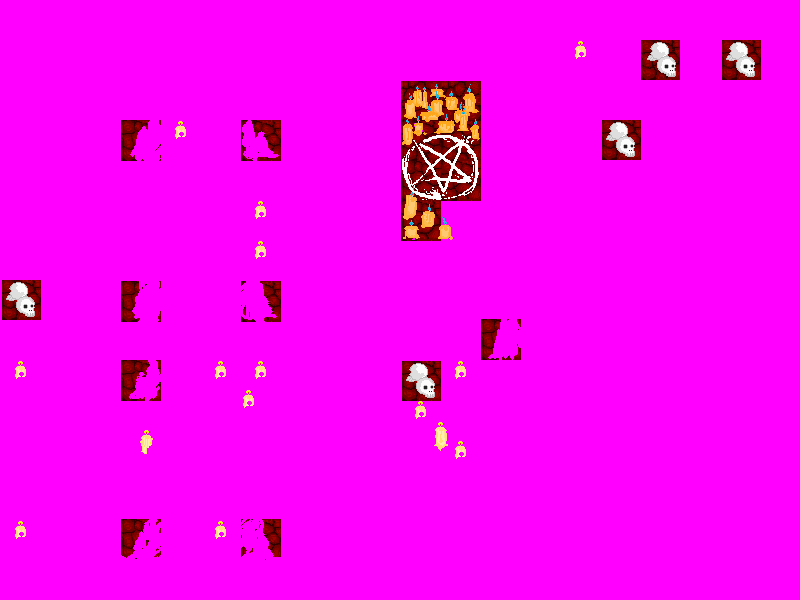
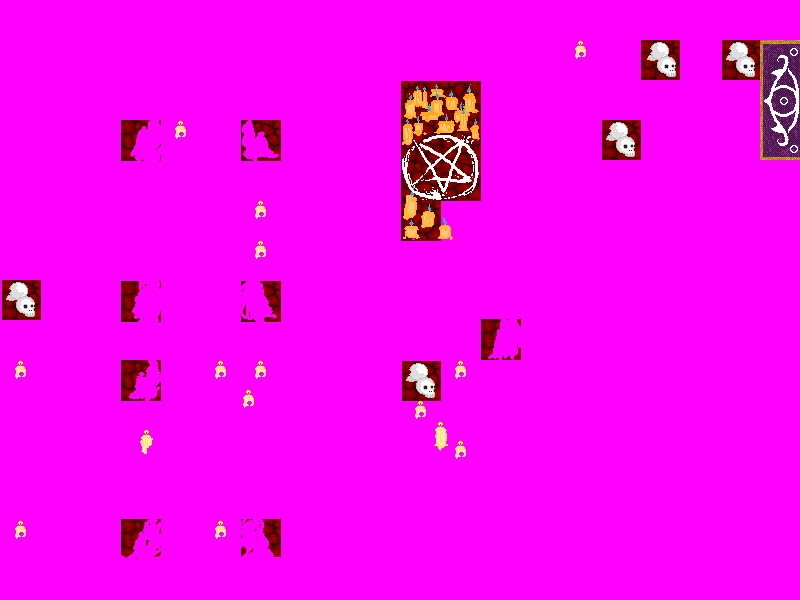
Balanceamento + máscara

Changed region(s): [[0.9375, 0.06, 1.0, 0.27]]

diff --git a/code/src/wave.cpp b/code/src/wave.cpp
@@ -107,8 +107,8 @@ void Wave::configurarWave()
 {
 	switch(this->mapaAtual->tipo)
 	{
-		case SALA_GUARDA:
-			this->quantidadeComboios = 4;
+		case SALA_ARTES_NEGRAS:
+			this->quantidadeComboios = 3;
 			this->intervaloEntreComboios = 3*Tela::FPS;
 			this->intervaloCriacaoInimigos = (3*Tela::FPS)/2;
 			this->atrasoEntreComboios = this->intervaloEntreComboios - Tela::FPS;
@@ -116,26 +116,26 @@ void Wave::configurarWave()
 			if (this->numeroWave < 2)
 			{
 				this->quantidadeInimigosTipoPorComboio[CAPITAO] = 0;
-				this->quantidadeInimigosTipoPorComboio[SAQUEADOR] = 0;
-				this->quantidadeInimigosTipoPorComboio[CORSARIO] = 5;
+				this->quantidadeInimigosTipoPorComboio[SAQUEADOR] = 2;
+				this->quantidadeInimigosTipoPorComboio[CORSARIO] = 2;
 				this->quantidadeInimigosTipoPorComboio[PERNA_DE_PAU] = 0;
 			} else if (this->numeroWave < 3)
 			{
 				this->quantidadeInimigosTipoPorComboio[CAPITAO] = 0;
-				this->quantidadeInimigosTipoPorComboio[SAQUEADOR] = 5;
-				this->quantidadeInimigosTipoPorComboio[CORSARIO] = 0;
+				this->quantidadeInimigosTipoPorComboio[SAQUEADOR] = 1;
+				this->quantidadeInimigosTipoPorComboio[CORSARIO] = 3;
 				this->quantidadeInimigosTipoPorComboio[PERNA_DE_PAU] = 0;
 			
 			} else if (this->numeroWave < 5)
 			{
 				this->quantidadeInimigosTipoPorComboio[CAPITAO] = 0;
 				this->quantidadeInimigosTipoPorComboio[SAQUEADOR] = 0;
-				this->quantidadeInimigosTipoPorComboio[CORSARIO] = 0;
-				this->quantidadeInimigosTipoPorComboio[PERNA_DE_PAU] = 5;
+				this->quantidadeInimigosTipoPorComboio[CORSARIO] = 4;
+				this->quantidadeInimigosTipoPorComboio[PERNA_DE_PAU] = 2;
 			
 			} else if (this->numeroWave == 5)
 			{
-				this->quantidadeInimigosTipoPorComboio[CAPITAO] = 1;
+				this->quantidadeInimigosTipoPorComboio[CAPITAO] = 3;
 				this->quantidadeInimigosTipoPorComboio[SAQUEADOR] = 0;
 				this->quantidadeInimigosTipoPorComboio[CORSARIO] = 0;
 				this->quantidadeInimigosTipoPorComboio[PERNA_DE_PAU] = 0;
@@ -148,38 +148,38 @@ void Wave::configurarWave()
 			this->quantidadeInimigosWave = this->quantidadeInimigosPorComboio * this->quantidadeComboios;
 			break;
 		
-		case SALA_ARTES_NEGRAS:
-			this->quantidadeComboios = 4;
+		case SALA_GUARDA:
+			this->quantidadeComboios = 3;
 			this->intervaloEntreComboios = 3*Tela::FPS;
 			this->intervaloCriacaoInimigos = (3*Tela::FPS)/2;
 			this->atrasoEntreComboios = this->intervaloEntreComboios - Tela::FPS;
 			
 			if (this->numeroWave < 2)
 			{
-				this->quantidadeInimigosTipoPorComboio[CAPITAO] = 1;
+				this->quantidadeInimigosTipoPorComboio[CAPITAO] = 0;
+				this->quantidadeInimigosTipoPorComboio[SAQUEADOR] = 0;
+				this->quantidadeInimigosTipoPorComboio[CORSARIO] = 4;
+				this->quantidadeInimigosTipoPorComboio[PERNA_DE_PAU] = 2;
+			} else if (this->numeroWave < 3)
+			{
+				this->quantidadeInimigosTipoPorComboio[CAPITAO] = 0;
 				this->quantidadeInimigosTipoPorComboio[SAQUEADOR] = 2;
 				this->quantidadeInimigosTipoPorComboio[CORSARIO] = 2;
 				this->quantidadeInimigosTipoPorComboio[PERNA_DE_PAU] = 1;
-			} else if (this->numeroWave < 3)
-			{
-				this->quantidadeInimigosTipoPorComboio[CAPITAO] = 3;
-				this->quantidadeInimigosTipoPorComboio[SAQUEADOR] = 3;
-				this->quantidadeInimigosTipoPorComboio[CORSARIO] = 3;
-				this->quantidadeInimigosTipoPorComboio[PERNA_DE_PAU] = 3;
 			
 			} else if (this->numeroWave < 5)
 			{
-				this->quantidadeInimigosTipoPorComboio[CAPITAO] = 4;
+				this->quantidadeInimigosTipoPorComboio[CAPITAO] = 1;
 				this->quantidadeInimigosTipoPorComboio[SAQUEADOR] = 4;
 				this->quantidadeInimigosTipoPorComboio[CORSARIO] = 4;
-				this->quantidadeInimigosTipoPorComboio[PERNA_DE_PAU] = 4;
+				this->quantidadeInimigosTipoPorComboio[PERNA_DE_PAU] = 0;
 			
 			} else if (this->numeroWave == 5)
 			{
-				this->quantidadeInimigosTipoPorComboio[CAPITAO] = 5;
-				this->quantidadeInimigosTipoPorComboio[SAQUEADOR] = 5;
-				this->quantidadeInimigosTipoPorComboio[CORSARIO] = 5;
-				this->quantidadeInimigosTipoPorComboio[PERNA_DE_PAU] = 5;			
+				this->quantidadeInimigosTipoPorComboio[CAPITAO] = 4;
+				this->quantidadeInimigosTipoPorComboio[SAQUEADOR] = 0;
+				this->quantidadeInimigosTipoPorComboio[CORSARIO] = 0;
+				this->quantidadeInimigosTipoPorComboio[PERNA_DE_PAU] = 1;			
 			}
 				
 			this->quantidadeInimigosPorComboio =  this->quantidadeInimigosTipoPorComboio[CAPITAO] 
@@ -190,7 +190,7 @@ void Wave::configurarWave()
 			break;
 			
 		case JARDIM_EXTERNO:
-			this->quantidadeComboios = 10;
+			this->quantidadeComboios = 4;
 			this->intervaloEntreComboios = 2*Tela::FPS;
 			this->intervaloCriacaoInimigos = (3*Tela::FPS)/2;
 			this->atrasoEntreComboios = this->intervaloEntreComboios - Tela::FPS;
@@ -199,28 +199,28 @@ void Wave::configurarWave()
 			{
 				this->quantidadeInimigosTipoPorComboio[CAPITAO] = 1;
 				this->quantidadeInimigosTipoPorComboio[SAQUEADOR] = 0;
-				this->quantidadeInimigosTipoPorComboio[CORSARIO] = 5;
+				this->quantidadeInimigosTipoPorComboio[CORSARIO] = 3;
 				this->quantidadeInimigosTipoPorComboio[PERNA_DE_PAU] = 0;
 			} else if (this->numeroWave < 3)
 			{
 				this->quantidadeInimigosTipoPorComboio[CAPITAO] = 1;
 				this->quantidadeInimigosTipoPorComboio[SAQUEADOR] = 2;
 				this->quantidadeInimigosTipoPorComboio[CORSARIO] = 3;
-				this->quantidadeInimigosTipoPorComboio[PERNA_DE_PAU] = 4;
+				this->quantidadeInimigosTipoPorComboio[PERNA_DE_PAU] = 2;
 			
 			} else if (this->numeroWave < 5)
 			{
-				this->quantidadeInimigosTipoPorComboio[CAPITAO] = 8;
+				this->quantidadeInimigosTipoPorComboio[CAPITAO] = 3;
 				this->quantidadeInimigosTipoPorComboio[SAQUEADOR] = 2;
-				this->quantidadeInimigosTipoPorComboio[CORSARIO] = 8;
+				this->quantidadeInimigosTipoPorComboio[CORSARIO] = 3;
 				this->quantidadeInimigosTipoPorComboio[PERNA_DE_PAU] = 2;
 			
 			} else if (this->numeroWave == 5)
 			{
-				this->quantidadeInimigosTipoPorComboio[CAPITAO] = 8;
-				this->quantidadeInimigosTipoPorComboio[SAQUEADOR] = 8;
-				this->quantidadeInimigosTipoPorComboio[CORSARIO] = 8;
-				this->quantidadeInimigosTipoPorComboio[PERNA_DE_PAU] = 8;			
+				this->quantidadeInimigosTipoPorComboio[CAPITAO] = 3;
+				this->quantidadeInimigosTipoPorComboio[SAQUEADOR] = 3;
+				this->quantidadeInimigosTipoPorComboio[CORSARIO] = 3;
+				this->quantidadeInimigosTipoPorComboio[PERNA_DE_PAU] = 3;			
 			}
 				
 			this->quantidadeInimigosPorComboio =  this->quantidadeInimigosTipoPorComboio[CAPITAO] 
@@ -231,7 +231,7 @@ void Wave::configurarWave()
 			break;
 		
 		case SALA_TREINAMENTO:
-			this->quantidadeComboios = 10;
+			this->quantidadeComboios = 4;
 			this->intervaloEntreComboios = 4*Tela::FPS;
 			this->intervaloCriacaoInimigos = (3*Tela::FPS)/2;
 			this->atrasoEntreComboios = this->intervaloEntreComboios - Tela::FPS;
@@ -272,21 +272,21 @@ void Wave::configurarWave()
 			break;
 
 		case SALA_REUNIAO:
-			this->quantidadeComboios = 2;
+			this->quantidadeComboios = 3;
 			this->intervaloEntreComboios = 4*Tela::FPS;
-			this->intervaloCriacaoInimigos = (3*Tela::FPS)/2;
+			this->intervaloCriacaoInimigos = 1.5*Tela::FPS;
 			this->atrasoEntreComboios = this->intervaloEntreComboios - Tela::FPS;
 			
 			if (this->numeroWave < 2)
 			{
 				this->quantidadeInimigosTipoPorComboio[CAPITAO] = 0;
 				this->quantidadeInimigosTipoPorComboio[SAQUEADOR] = 0;
-				this->quantidadeInimigosTipoPorComboio[CORSARIO] = 5;
+				this->quantidadeInimigosTipoPorComboio[CORSARIO] = 3;
 				this->quantidadeInimigosTipoPorComboio[PERNA_DE_PAU] = 0;
 			} else if (this->numeroWave < 3)
 			{
 				this->quantidadeInimigosTipoPorComboio[CAPITAO] = 0;
-				this->quantidadeInimigosTipoPorComboio[SAQUEADOR] = 5;
+				this->quantidadeInimigosTipoPorComboio[SAQUEADOR] = 4;
 				this->quantidadeInimigosTipoPorComboio[CORSARIO] = 0;
 				this->quantidadeInimigosTipoPorComboio[PERNA_DE_PAU] = 0;
 			

diff --git a/code/src/mapa.cpp b/code/src/mapa.cpp
@@ -19,6 +19,7 @@ void Mapa::configurarMapa()
 	{
 		case JARDIM_EXTERNO:
 			this->tiles = Ambiente::carregarConfiguracaoMapa("externGarden.map");
+			this->mascara = Ambiente::carregarImagem("mascara_jardim.png");
 			break;
 
 		case SALA_TREINAMENTO:
@@ -27,10 +28,12 @@ void Mapa::configurarMapa()
 
 		case SALA_REUNIAO:
 			this->tiles = Ambiente::carregarConfiguracaoMapa("meetingRoom.map");
+			this->mascara = Ambiente::carregarImagem("mascara_sala_reuniao.png");
 			break;
 			
 		case SALA_ARTES_NEGRAS:
 			this->tiles = Ambiente::carregarConfiguracaoMapa("darkmagicRoom.map");
+			this->mascara = Ambiente::carregarImagem("mascara_artesnegras.png");
 			break;
 
 		case SALA_GUARDA:
@@ -90,14 +93,6 @@ void Mapa::gerarSuperficieMapa()
 
 	}
 
-
-	// SDL_Surface * tileNaoUtilizavel = Ambiente::carregarImagem("acid.png");
-	// SDL_Surface * tileCaminho 		= Ambiente::carregarImagem("wooden_floor.bmp");
-	// SDL_Surface * tileUtilizavel 	= Ambiente::carregarImagem("bricks.png");
-	// SDL_Surface * tileEntrada 		= Ambiente::carregarImagem("red_carpet.bmp");
-	// SDL_Surface * tileSaida 		= Ambiente::carregarImagem("red_carpet.bmp");
-	// SDL_Surface * tileParaBlit 		=  NULL;
-
 	SDL_Rect tileRect = {0, 0, Mapa::TILE_WIDTH, Mapa::TILE_HEIGHT};
 	bool achouEntrada = false;
 	bool achouSaida = false;
@@ -107,18 +102,15 @@ void Mapa::gerarSuperficieMapa()
 		switch(this->tiles->at(i))
 		{
 			case NAO_UTILIZAVEL:
-				// tileParaBlit = tileNaoUtilizavel;
 				tile_aux = 2;
 				break;
 
 			case CAMINHO:
-				// tileParaBlit = tileCaminho;
 				tile_aux = 0;
 
 				break;
 
 			case UTILIZAVEL:
-				// tileParaBlit = tileUtilizavel;
 				tile_aux = 1;
 
 				break;
@@ -130,7 +122,6 @@ void Mapa::gerarSuperficieMapa()
 					this->tileEntrada.y = (i / Mapa::TILES_POR_LINHA) + 1;
 					achouEntrada = true;
 				}
-				// tileParaBlit = tileEntrada;
 				tile_aux = 4;
 				break;
 				
@@ -141,7 +132,6 @@ void Mapa::gerarSuperficieMapa()
 					Mapa::tileSaida.y = (i / Mapa::TILES_POR_LINHA);
 					achouSaida = true;
 				}
-				// tileParaBlit = tileSaida;
 				tile_aux = 3;
 				break;
 		}
@@ -150,7 +140,6 @@ void Mapa::gerarSuperficieMapa()
 		tileRect.y = contY * Mapa::TILE_HEIGHT;
 		
 		SDL_BlitSurface(tileset, &clip[tile_aux], this->imagem, &tileRect);
-		// SDL_BlitSurface(tileParaBlit, NULL, this->imagem, &tileRect);
 
 		contX++;
 		if(contX == Tela::WIDTH/Mapa::TILE_WIDTH)
@@ -163,16 +152,12 @@ void Mapa::gerarSuperficieMapa()
 
 	SDL_FreeSurface(tileset);
 
-	// SDL_FreeSurface(tileNaoUtilizavel);
-	// SDL_FreeSurface(tileCaminho);
-	// SDL_FreeSurface(tileUtilizavel);
-	// SDL_FreeSurface(tileEntrada);
-	// SDL_FreeSurface(tileSaida);
 }
 
 int Mapa::desenhar()
 {
 	SDL_BlitSurface(this->imagem, NULL, SDL_GetVideoSurface(), this->rect);
+	if (this->mascara)	SDL_BlitSurface(this->mascara, NULL, SDL_GetVideoSurface(), this->rect);
 	return 0;
 }
 
@@ -192,6 +177,7 @@ Mapa::Mapa(TipoMapa tipo)
 	this->rect->w = Tela::WIDTH;
 	this->rect->h = Tela::HEIGHT;
 	this->imagem = NULL;
+	this->mascara = NULL;
 	this->configurarMapa();
 	this->gerarSuperficieMapa();
 	

diff --git a/code/src/torre.cpp b/code/src/torre.cpp
@@ -82,7 +82,7 @@ Torre::Torre(TipoTorre tipo, int x, int y, Wave * waveAtual, vector<Desenhavel *
 			this->alcance.x = x-(this->alcance.w/2 - 20);
 			this->alcance.y = y-(this->alcance.h/2 - 20);
 			this->DPS = 2;
-			this->dano = 3;
+			this->dano = 7;
 			break;
 
 		case MARIKI:
@@ -93,7 +93,7 @@ Torre::Torre(TipoTorre tipo, int x, int y, Wave * waveAtual, vector<Desenhavel *
 			this->alcance.x = x-(this->alcance.w/2 - 20);
 			this->alcance.y = y-(this->alcance.h/2 - 20);
 			this->DPS = 1;
-			this->dano = 4;
+			this->dano = 15;
 			break;
 	}
 
@@ -120,7 +120,6 @@ Torre::~Torre()
 int Torre::desenhar()
 {
 	SDL_BlitSurface(this->imagem, &this->clip[(int) (this->frame)], SDL_GetVideoSurface(), this->rect);
-	// SDL_BlitSurface(this->imagem, NULL, SDL_GetVideoSurface(), this->rect);
 	return 0;
 }
 

diff --git a/code/src/util.cpp b/code/src/util.cpp
@@ -14,7 +14,7 @@ using namespace std;
 EstadoJogo Util::estadoJogo = ENTRADA_JOGO; 
 EstadoInterno Util::estadoInterno = TRANSICAO_WAVE;
 EstadoInterno Util::ultimoEstadoInterno = OBSERVANDO;
-TipoMapa Util::mapaAtual = SALA_GUARDA;
+TipoMapa Util::mapaAtual = SALA_REUNIAO;
 TipoTorre Util::torreCompra;
 ImagemCompra Util::imagemCompra;
 SDL_Rect ImagemCompra::clip_compra = {0,0,40,40};

diff --git a/code/include/mapa.h b/code/include/mapa.h
@@ -28,8 +28,8 @@ enum Tile
 enum TipoMapa
 {
 	SALA_REUNIAO,
-	SALA_GUARDA,
 	SALA_ARTES_NEGRAS,
+	SALA_GUARDA,
 	SALA_TREINAMENTO,
 	JARDIM_EXTERNO
 };
@@ -48,7 +48,7 @@ private:
 	void gerarSuperficieMapa();
 	static const int NUMERO_TOTAL_TILES;
 	Mix_Music * musicaFundo;
-	
+	SDL_Surface * mascara;
 	SDL_Rect clip[5];
 
 public:

diff --git a/code/include/torre.h b/code/include/torre.h
@@ -21,11 +21,11 @@ enum TipoTorre
 };
 
 const int PRECO_SHURIKEN=20;
-const int PRECO_KATANA=20;
+const int PRECO_KATANA=15;
 const int PRECO_NUNCHAKU=30;
 const int PRECO_MARIKI=60;
 const int PRECO_KUNAI=50;
-const int PRECO_BOMBA=90;
+const int PRECO_BOMBA=60;
 
 enum EstadoTorre
 {
